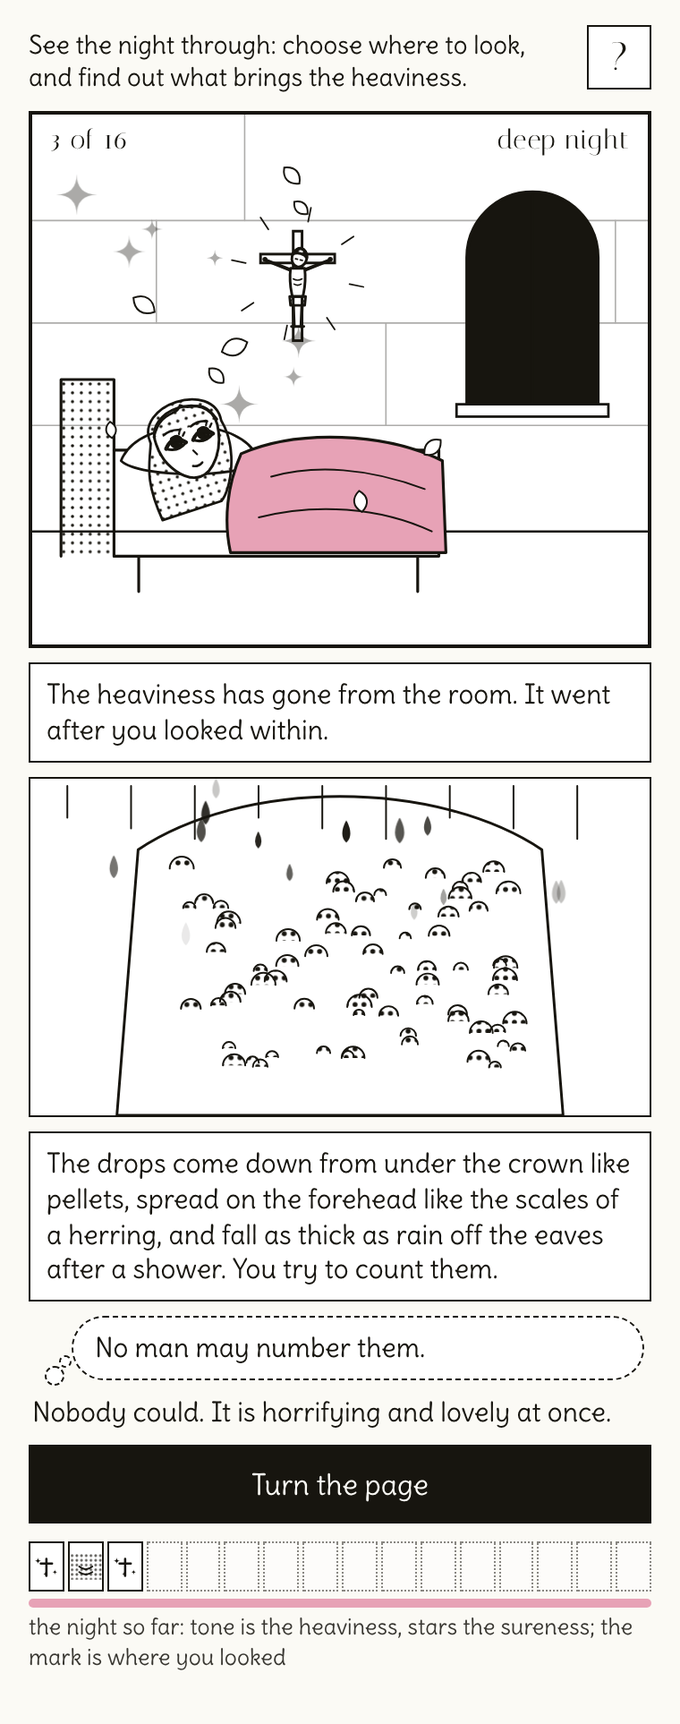
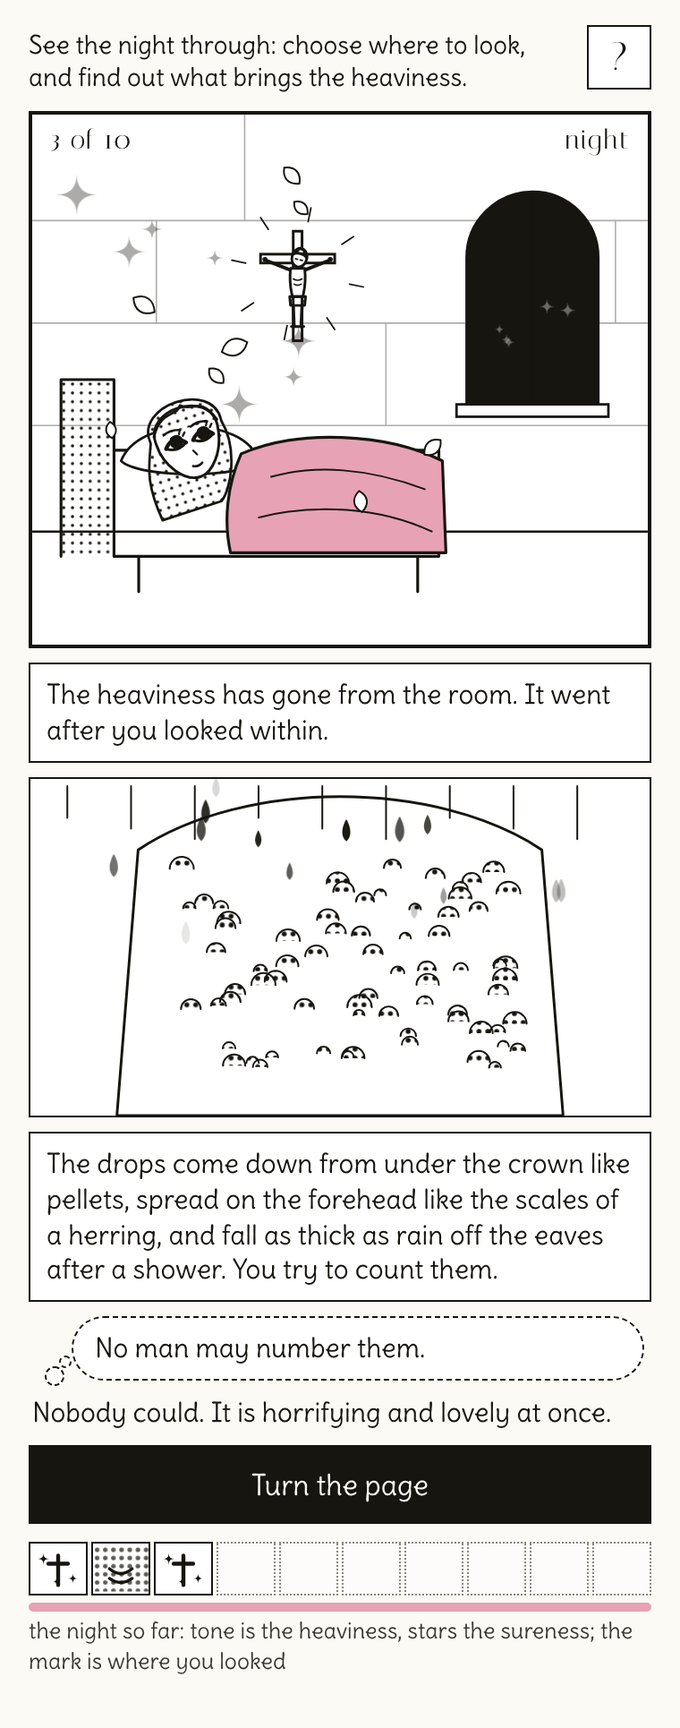
Julian's Window, revision 1: ten beats, one per sight at the cross
The sixteen-beat night ran dry after the tenth beat and felt repetitive. Ten beats: a cross-only player sees exactly the ten sights and nobody else can, so a dark beat at the window costs a sight; the turn rate rises (0.6, longest run 3) so the heaviness still arrives about three times; the record is two rows of five. Calibration 31 checks; four scripted nights; memo §20.

Claude-Session: https://claude.ai/code/session_018niUhxL1598XkZ1naDgFgY

diff --git a/julian/julians-window.html b/julian/julians-window.html
@@ -53,13 +53,13 @@ h2 { font-family: 'Italiana', serif; font-weight: 400; font-size: 28px; line-hei
 .balloon.hers::before { content: ''; position: absolute; left: -16px; bottom: -4px; width: 9px; height: 9px; border: 1.5px dashed var(--ink); border-radius: 50%; background: #fff; }
 .balloon.hers::after { content: ''; position: absolute; left: -8px; bottom: 6px; width: 5px; height: 5px; border: 1.5px dashed var(--ink); border-radius: 50%; background: #fff; }
 .strip { display: flex; gap: 2px; width: var(--w); margin: 10px auto 0; }
-.strip .fr { flex: 1 1 0; height: 28px; border: 1.2px solid var(--ink); background: #fff; position: relative; overflow: hidden; }
+.strip .fr { flex: 1 1 0; height: 30px; border: 1.2px solid var(--ink); background: #fff; position: relative; overflow: hidden; }
 .strip .fr.empty { border-style: dotted; opacity: .5; }
 .strip .fr svg { display: block; width: 100%; height: 100%; }
 .blanketline { width: var(--w); height: 5px; background: var(--rose); margin: 4px auto 0; border-radius: 3px; }
 .striplabel { width: var(--w); margin: 3px auto 0; font-size: 12.5px; display: flex; justify-content: space-between; opacity: .85; }
-.record { display: grid; grid-template-columns: repeat(8, 1fr); gap: 3px; width: var(--w); margin: 8px auto 0; }
-.record .fr { height: 48px; border: 1.2px solid var(--ink); background: #fff; overflow: hidden; }
+.record { display: grid; grid-template-columns: repeat(5, 1fr); gap: 4px; width: var(--w); margin: 8px auto 0; }
+.record .fr { height: 54px; border: 1.2px solid var(--ink); background: #fff; overflow: hidden; }
 .record .fr svg { display: block; width: 100%; height: 100%; }
 .verd h3 { font-family: 'Italiana', serif; font-weight: 400; font-size: 22px; margin: 14px 0 4px; }
 .sentence { font-family: 'Italiana', serif; font-size: 26px; line-height: 1.15; margin: 18px 0 10px; text-align: center; }
@@ -139,7 +139,7 @@ h2 { font-family: 'Italiana', serif; font-weight: 400; font-size: 28px; line-hei
   <h3 class="verd" style="font-family:'Italiana',serif;font-weight:400;font-size:22px;margin:16px 0 4px">The night</h3>
   <div class="record" id="recordGrid"></div>
   <div class="blanketline"></div>
-  <div class="striplabel"><span>sixteen beats: tone is the heaviness, stars the sureness, the mark is where you looked; the blanket under all of them</span></div>
+  <div class="striplabel"><span>ten beats: tone is the heaviness, stars the sureness, the mark is where you looked; the blanket under all of them</span></div>
   <p class="sentence" id="vSentence"></p>
   <div class="row"><button class="btn primary wide" id="againBtn">Another night</button></div>
   <div class="row"><button class="btn" data-go="help">How to play</button><button class="btn" data-go="about">About</button></div>
@@ -149,7 +149,7 @@ h2 { font-family: 'Italiana', serif; font-weight: 400; font-size: 28px; line-hei
 <section id="help" class="screen help">
   <h2>How to play</h2>
   <p><b>See the night through. Each time, choose where to look — the cross, the window, or within — and find out what brings the heaviness.</b></p>
-  <p>The picture is one room: your bed on the left with you in it under a rose blanket, a cross on the wall in front of you, a window on the right. The night has sixteen beats; the small label at the top right of the picture gives the hour, and the sky in the window changes with it.</p>
+  <p>The picture is one room: your bed on the left with you in it under a rose blanket, a cross on the wall in front of you, a window on the right. The night has ten beats, one for each sight at the cross, so no night shows everything; the small label at the top right of the picture gives the hour, and the sky in the window changes with it.</p>
   <p><b>The weather.</b> Sometimes the room is light, with stars and petals over it: that is a sureness. Sometimes a heavy dot-tone lies over everything and scribbles creep in at the edges: that is the heaviness. The line under the picture says which it is now, and, when it has just changed, what you looked at just before. <b>The blanket</b> is how you are kept. It is the one thing in colour.</p>
   <p><b>Looking.</b> Each beat, tap a place: the cross, the window, or you yourself (within), in the picture or on the three panels under it. Your eyes turn there and the panel says what looking there is. Then tap <b>Look</b>. <b>The cross</b> shows the next sight of the Passion; in the heaviness the same sight is hard to look at. <b>The window</b> shows the sky and nothing else; nothing there can harm you, and nothing is shown. <b>Within</b> asks a question and gets an answer, one per beat, in order; in the heaviness the first question is what brought it.</p>
   <p><b>After a look</b> the game says in its own words what you did and what came of it, then His words in a round balloon and yours in a dashed one, then what the heaviness did and what that means. <b>Turn the page</b> starts the next beat. Nothing carries over: every beat starts with your eyes on nothing.</p>
@@ -165,7 +165,7 @@ h2 { font-family: 'Italiana', serif; font-weight: 400; font-size: 28px; line-hei
 <p>In the Seventh Shewing (ch. xv) Julian is filled with sureness, then "turned and left to myself in heaviness", then comforted, "now that one, and now that other, divers times — I suppose about twenty times". She checks the obvious cause and rules it out: "in this time I sinned not wherefore I should be left to myself"; "also I deserved not to have this blessed feeling." She concludes that the swing is given freely, that "He keepeth us even alike secure in woe and in weal", and that we should not "follow the feelings of pain in sorrow and mourning for them, but ... suddenly pass over." The game is that night: the heaviness comes and goes on a schedule drawn before your first look, it follows nothing you do, and the blanket is the same in every panel.</p>
 <p>Where she looks is her one act all night, and the sights are the text's, in its order: the garland bleeding (ch. iv), the drops like pellets, herring scales and rain off the eaves (vii), the face half covered and "seeking is as good as beholding" (x), the scourging (xii), the laugh (xiii), the drying and "I thirst" (xvi–xvii), "Look up to Heaven" and "Nay; I may not" (xix), the change of cheer with "no time between" (xxi), "Art thou well pleased?" (xxii), the side (xxiv), His mother (xxv), "It is I" (xxvi). Within: the hazelnut (v), "sin is no deed" (xi), "Is any pain like this?" (xvii), the check of the cause (xv), "It behoved that there should be sin; but all shall be well" (xxvii), "I have made well the most harm" (xxix), and the hidden part (xxx, xxxii).</p>
 <h3>Mechanism: a toy</h3>
-<p>The game runs a model built to illustrate the text's argument, not a model the text contains. <b>It demonstrates</b> that a night can be played in which the feeling swings on its own clock, follows nothing the player does, and leaves the keeping untouched; and that the sights can be reached in the text's order by looking. <b>It assumes</b> the toy: sixteen beats for sixteen shewings; the twenty swings of one shewing compressed to about eight across the night, on a seeded random schedule with the first heaviness forced by the third beat; a window that carries "Look up to Heaven" and the hour; the horror "away from the Cross" (ch. iii) drawn as scribbles at the edges; a sight dreadful in heaviness and sweet in sureness where ch. vii says one sight was both at once; the change of cheer tied to being at the cross when the weather turns; the blanket for "He is our clothing" (ch. v); the questions asked when the player chooses rather than when He shows. <b>The text establishes</b> an argument from a vision, not a finding: that the swing was not caused by her sin, that the keeping is constant, that the right act is to pass over. Under this game's assumptions those three hold by construction; the game is a way of meeting them, not evidence for them.</p>
+<p>The game runs a model built to illustrate the text's argument, not a model the text contains. <b>It demonstrates</b> that a night can be played in which the feeling swings on its own clock, follows nothing the player does, and leaves the keeping untouched; and that the sights can be reached in the text's order by looking. <b>It assumes</b> the toy: ten beats, one per sight at the cross, so that no night shows everything; the twenty swings of one shewing compressed to about five or six across the night, on a seeded random schedule with the first heaviness forced by the third beat; a window that carries "Look up to Heaven" and the hour; the horror "away from the Cross" (ch. iii) drawn as scribbles at the edges; a sight dreadful in heaviness and sweet in sureness where ch. vii says one sight was both at once; the change of cheer tied to being at the cross when the weather turns; the blanket for "He is our clothing" (ch. v); the questions asked when the player chooses rather than when He shows. <b>The text establishes</b> an argument from a vision, not a finding: that the swing was not caused by her sin, that the keeping is constant, that the right act is to pass over. Under this game's assumptions those three hold by construction; the game is a way of meeting them, not evidence for them.</p>
 <p>Every number and every line the game says sits in a config block at the top of <code>mechanism.js</code>, tagged with its chapter or marked as our choice. The weather is drawn from the night's number, shown on the morning page, so a night can be replayed.</p>
 <h3>Game built from this text</h3>
 <p>Julian of Norwich, <i>Revelations of Divine Love</i>, tr. Grace Warrack (London: Methuen, 1901), chapters i–xxxii. Game built from this text; the text is the authority where the two disagree. Her words appear in balloons as the text gives them, lightly shortened; the game's own voice is in the boxes. Steffen Huck, 2026, with Claude under the <a href="https://github.com/steffenhuck/paper-to-game">paper-to-game</a> skill. Type: Delius (Natalia Raices) and Italiana (Santiago Orozco), both under the SIL Open Font License.</p>
@@ -182,18 +182,17 @@ h2 { font-family: 'Italiana', serif; font-weight: 400; font-size: 28px; line-hei
   'use strict';
 
   var CONFIG = {
-    beats: 16,          // ch. i: "Sixteen Shewings"; our choice: one beat of the night per shewing (a count, not a mapping)
+    beats: 10,          // our choice: ten beats, one per sight at the cross (ch. iv–xxvi), so a night cannot show everything; the first build had sixteen, for the sixteen shewings (ch. i), and ran dry after the tenth
     swingsInText: 20,   // ch. xv: "now that one, and now that other, divers times — I suppose about twenty times" (in one shewing)
-    turnProb: 0.5,      // our choice: the weather turns on about half the beats; ~8 turns in 16 beats stands for the twenty in the text
+    turnProb: 0.6,      // our choice: the weather turns on about six beats in ten; ~5–6 turns in 10 beats stands for the twenty in the text
     firstTurnBy: 3,     // our choice (a floor): the first heaviness no later than beat 3, so the discovery arrives early
-    maxRun: 4,          // our choice: no stretch of one weather longer than 4 beats (ch. xv: "This lasted but a while")
+    maxRun: 3,          // our choice: no stretch of one weather longer than 3 beats (ch. xv: "This lasted but a while")
     startWeal: true,    // ch. xv: the sureness came first ("I was fulfilled with the everlasting sureness")
     keeping: 1,         // ch. xv: "He keepeth us even alike secure in woe and in weal" — constant by construction, never read by the weather
     actsAffectWeather: 0, // ch. xv: "freely our Lord giveth when He will" — the schedule is drawn from the seed before the first look; 0 = no effect
     cheerNeedsCross: 1, // ch. xxi: "willingly abiding in the same Cross ... unto the last point, suddenly He shall change His Cheer" — our tie
     profferAfterDrying: 1, // ch. xix: "Look up to Heaven" is offered while she beholds the drying (ch. xvi–xvii); our tie to the first dark after it
-    hours: ['deep night', 'deep night', 'deep night', 'deep night', 'night', 'night', 'night', 'night',
-            'small hours', 'small hours', 'small hours', 'small hours', 'before dawn', 'before dawn', 'first light', 'morning'] // our choice: the window's clock; the text gives no hour in these chapters
+    hours: ['deep night', 'deep night', 'night', 'night', 'small hours', 'small hours', 'before dawn', 'before dawn', 'first light', 'morning'] // our choice: the window's clock; the text gives no hour in these chapters
   };
 
   // ---- the weather: a seeded schedule, drawn once, independent of every look ----------------------------------------

diff --git a/julian/calibration.js b/julian/calibration.js
@@ -18,16 +18,16 @@ var POLICIES = {
 function play(seed, policy) { var st = J.newNight(seed); while (!st.done) J.look(st, policy(st)); return st; }
 function turns(w) { var k = 0; for (var i = 1; i < w.length; i++) if (w[i] !== w[i - 1]) k++; return k; }
 
-// 1. The weather's shape (ch. xv): sixteen beats, sureness first, the first heaviness by beat 3, no run longer than maxRun,
-//    about half the beats turn: the twenty of the text compressed to about eight, between five and eleven at the 5th–95th percentile.
+// 1. The weather's shape (ch. xv): ten beats, sureness first, the first heaviness by beat 3, no run longer than maxRun,
+//    about six beats in ten turn: the twenty of the text compressed to about five or six, between four and eight at the 5th–95th percentile.
 var T = SEEDS.map(function (s) { return turns(J.schedule(s)); }).sort(function (a, b) { return a - b; });
 var mean = T.reduce(function (a, b) { return a + b; }, 0) / T.length;
-check('schedule has ' + C.beats + ' beats (ch. i: sixteen shewings, as a count)', SEEDS.every(function (s) { return J.schedule(s).length === C.beats; }));
+check('schedule has ' + C.beats + ' beats (one per sight at the cross)', SEEDS.every(function (s) { return J.schedule(s).length === C.beats; }));
 check('the night begins in sureness (ch. xv)', SEEDS.every(function (s) { return J.schedule(s)[0] === true; }));
 check('first heaviness by beat ' + C.firstTurnBy + ' on every seed (our floor)', SEEDS.every(function (s) { var w = J.schedule(s); return w.slice(0, C.firstTurnBy).indexOf(false) >= 0; }));
 check('no stretch of one weather longer than ' + C.maxRun + ' beats ("this lasted but a while")', SEEDS.every(function (s) { var w = J.schedule(s), run = 1; for (var i = 1; i < w.length; i++) { run = w[i] === w[i - 1] ? run + 1 : 1; if (run > C.maxRun) return false; } return true; }));
-check('mean turns per night between 7 and 9 (the text\'s ~20 in one shewing, compressed; declared)', mean >= 7 && mean <= 9, 'mean ' + mean.toFixed(2));
-check('5th–95th percentile of turns within [5, 11]', T[Math.floor(0.05 * T.length)] >= 5 && T[Math.floor(0.95 * T.length)] <= 11, T[Math.floor(0.05 * T.length)] + '–' + T[Math.floor(0.95 * T.length)]);
+check('mean turns per night between 5 and 7 (the text\'s ~20 in one shewing, compressed; declared)', mean >= 5 && mean <= 7, 'mean ' + mean.toFixed(2));
+check('5th–95th percentile of turns within [4, 8]', T[Math.floor(0.05 * T.length)] >= 4 && T[Math.floor(0.95 * T.length)] <= 8, T[Math.floor(0.05 * T.length)] + '–' + T[Math.floor(0.95 * T.length)]);
 check('the twenty is in CONFIG with its chapter', C.swingsInText === 20);
 
 // 2. Independence (ch. xv: "freely our Lord giveth when He will"; "sin is not always the cause"): the same seed gives the same weather
@@ -47,7 +47,8 @@ check('CONFIG.actsAffectWeather is 0 and the schedule takes no argument but the 
 var order = J.CROSS.map(function (c) { return c.ch; });
 check('cross sights in the text\'s order', order.join('|') === 'iv|vii|x|xii|xiii|xvi–xvii|xxii|xxiv|xxv|xxvi');
 var allCross = play(1, POLICIES.cross);
-check('a player at the cross all night sees all ten sights then seeks (ch. x: seeking is as good as beholding)', allCross.record.slice(0, 10).every(function (r, i) { return r.sight === J.CROSS[i].id; }) && allCross.record.slice(10).every(function (r) { return r.sight === 'seeking'; }));
+check('a player at the cross all night sees exactly the ten sights, in order, and never seeks', allCross.record.length === 10 && allCross.record.every(function (r, i) { return r.sight === J.CROSS[i].id; }));
+check('the heaviness arrives at least twice on 95% of nights and three times on most (the superstition needs arrivals to fail)', (function () { var two = 0, three = 0; SEEDS.forEach(function (s) { var w = J.schedule(s), k = 0; for (var t = 1; t < w.length; t++) if (!w[t] && w[t - 1]) k++; if (k >= 2) two++; if (k >= 3) three++; }); return two / SEEDS.length >= 0.95 && three / SEEDS.length >= 0.5; })());
 check('every sight at the cross carries a line for sureness and one for heaviness (ch. vii: "horrifying and dreadful, sweet and lovely")', J.CROSS.every(function (c) { return c.sweet && c.dread; }));
 var allWithin = play(1, POLICIES.within);
 check('a player within all night asks the cause in the first dark, then the questions in order (v, xi, xvii, xxvii, xxix, xxx/xxxii), then rests', (function () {
@@ -94,7 +95,7 @@ check('the onsets named in the verdict are the places looked at just before each
 }));
 
 // 7. Robustness of the discovery (build.md §1): under other values of our own choices the heaviness still follows nothing.
-[{ turnProb: 0.3 }, { turnProb: 0.7 }, { maxRun: 3 }, { firstTurnBy: 2 }].forEach(function (alt) {
+[{ turnProb: 0.4 }, { turnProb: 0.8 }, { maxRun: 4 }, { firstTurnBy: 2 }].forEach(function (alt) {
   var saved = {}; Object.keys(alt).forEach(function (k) { saved[k] = C[k]; C[k] = alt[k]; });
   var o = { cross: [0, 0], window: [0, 0], within: [0, 0] };
   SEEDS.forEach(function (s) { var st = play(s, POLICIES.random); for (var t = 1; t < C.beats; t++) if (st.weather[t - 1]) { var p = st.record[t - 1].place; o[p][1]++; if (!st.weather[t]) o[p][0]++; } });
@@ -104,7 +105,7 @@ check('the onsets named in the verdict are the places looked at just before each
 });
 
 // 8. Playing it in numbers (build.md §3): what each way of playing sees and gets; no score exists, so the table is what is seen.
-console.log('\nways of playing, over 400 nights (means): dark beats / cross in dark / sights seen / questions asked / cheers / cause checked');
+console.log('\nways of playing, over 400 nights of ' + C.beats + ' beats (means): dark beats / cross in dark / sights seen / questions asked / cheers / cause checked');
 Object.keys(POLICIES).forEach(function (p) {
   var acc = [0, 0, 0, 0, 0, 0];
   SEEDS.forEach(function (s) { var v = J.verdict(play(s, POLICIES[p])).counts; acc[0] += v.darks; acc[1] += v.stay; acc[2] += v.seen; acc[3] += v.asked; acc[4] += v.cheers; acc[5] += (play(s, POLICIES[p]).causeAsked ? 1 : 0); });

diff --git a/julian/template.html b/julian/template.html
@@ -53,13 +53,13 @@ h2 { font-family: 'Italiana', serif; font-weight: 400; font-size: 28px; line-hei
 .balloon.hers::before { content: ''; position: absolute; left: -16px; bottom: -4px; width: 9px; height: 9px; border: 1.5px dashed var(--ink); border-radius: 50%; background: #fff; }
 .balloon.hers::after { content: ''; position: absolute; left: -8px; bottom: 6px; width: 5px; height: 5px; border: 1.5px dashed var(--ink); border-radius: 50%; background: #fff; }
 .strip { display: flex; gap: 2px; width: var(--w); margin: 10px auto 0; }
-.strip .fr { flex: 1 1 0; height: 28px; border: 1.2px solid var(--ink); background: #fff; position: relative; overflow: hidden; }
+.strip .fr { flex: 1 1 0; height: 30px; border: 1.2px solid var(--ink); background: #fff; position: relative; overflow: hidden; }
 .strip .fr.empty { border-style: dotted; opacity: .5; }
 .strip .fr svg { display: block; width: 100%; height: 100%; }
 .blanketline { width: var(--w); height: 5px; background: var(--rose); margin: 4px auto 0; border-radius: 3px; }
 .striplabel { width: var(--w); margin: 3px auto 0; font-size: 12.5px; display: flex; justify-content: space-between; opacity: .85; }
-.record { display: grid; grid-template-columns: repeat(8, 1fr); gap: 3px; width: var(--w); margin: 8px auto 0; }
-.record .fr { height: 48px; border: 1.2px solid var(--ink); background: #fff; overflow: hidden; }
+.record { display: grid; grid-template-columns: repeat(5, 1fr); gap: 4px; width: var(--w); margin: 8px auto 0; }
+.record .fr { height: 54px; border: 1.2px solid var(--ink); background: #fff; overflow: hidden; }
 .record .fr svg { display: block; width: 100%; height: 100%; }
 .verd h3 { font-family: 'Italiana', serif; font-weight: 400; font-size: 22px; margin: 14px 0 4px; }
 .sentence { font-family: 'Italiana', serif; font-size: 26px; line-height: 1.15; margin: 18px 0 10px; text-align: center; }
@@ -139,7 +139,7 @@ h2 { font-family: 'Italiana', serif; font-weight: 400; font-size: 28px; line-hei
   <h3 class="verd" style="font-family:'Italiana',serif;font-weight:400;font-size:22px;margin:16px 0 4px">The night</h3>
   <div class="record" id="recordGrid"></div>
   <div class="blanketline"></div>
-  <div class="striplabel"><span>sixteen beats: tone is the heaviness, stars the sureness, the mark is where you looked; the blanket under all of them</span></div>
+  <div class="striplabel"><span>ten beats: tone is the heaviness, stars the sureness, the mark is where you looked; the blanket under all of them</span></div>
   <p class="sentence" id="vSentence"></p>
   <div class="row"><button class="btn primary wide" id="againBtn">Another night</button></div>
   <div class="row"><button class="btn" data-go="help">How to play</button><button class="btn" data-go="about">About</button></div>
@@ -149,7 +149,7 @@ h2 { font-family: 'Italiana', serif; font-weight: 400; font-size: 28px; line-hei
 <section id="help" class="screen help">
   <h2>How to play</h2>
   <p><b>See the night through. Each time, choose where to look — the cross, the window, or within — and find out what brings the heaviness.</b></p>
-  <p>The picture is one room: your bed on the left with you in it under a rose blanket, a cross on the wall in front of you, a window on the right. The night has sixteen beats; the small label at the top right of the picture gives the hour, and the sky in the window changes with it.</p>
+  <p>The picture is one room: your bed on the left with you in it under a rose blanket, a cross on the wall in front of you, a window on the right. The night has ten beats, one for each sight at the cross, so no night shows everything; the small label at the top right of the picture gives the hour, and the sky in the window changes with it.</p>
   <p><b>The weather.</b> Sometimes the room is light, with stars and petals over it: that is a sureness. Sometimes a heavy dot-tone lies over everything and scribbles creep in at the edges: that is the heaviness. The line under the picture says which it is now, and, when it has just changed, what you looked at just before. <b>The blanket</b> is how you are kept. It is the one thing in colour.</p>
   <p><b>Looking.</b> Each beat, tap a place: the cross, the window, or you yourself (within), in the picture or on the three panels under it. Your eyes turn there and the panel says what looking there is. Then tap <b>Look</b>. <b>The cross</b> shows the next sight of the Passion; in the heaviness the same sight is hard to look at. <b>The window</b> shows the sky and nothing else; nothing there can harm you, and nothing is shown. <b>Within</b> asks a question and gets an answer, one per beat, in order; in the heaviness the first question is what brought it.</p>
   <p><b>After a look</b> the game says in its own words what you did and what came of it, then His words in a round balloon and yours in a dashed one, then what the heaviness did and what that means. <b>Turn the page</b> starts the next beat. Nothing carries over: every beat starts with your eyes on nothing.</p>

diff --git a/julian/about.html b/julian/about.html
@@ -3,7 +3,7 @@
 <p>In the Seventh Shewing (ch. xv) Julian is filled with sureness, then "turned and left to myself in heaviness", then comforted, "now that one, and now that other, divers times — I suppose about twenty times". She checks the obvious cause and rules it out: "in this time I sinned not wherefore I should be left to myself"; "also I deserved not to have this blessed feeling." She concludes that the swing is given freely, that "He keepeth us even alike secure in woe and in weal", and that we should not "follow the feelings of pain in sorrow and mourning for them, but ... suddenly pass over." The game is that night: the heaviness comes and goes on a schedule drawn before your first look, it follows nothing you do, and the blanket is the same in every panel.</p>
 <p>Where she looks is her one act all night, and the sights are the text's, in its order: the garland bleeding (ch. iv), the drops like pellets, herring scales and rain off the eaves (vii), the face half covered and "seeking is as good as beholding" (x), the scourging (xii), the laugh (xiii), the drying and "I thirst" (xvi–xvii), "Look up to Heaven" and "Nay; I may not" (xix), the change of cheer with "no time between" (xxi), "Art thou well pleased?" (xxii), the side (xxiv), His mother (xxv), "It is I" (xxvi). Within: the hazelnut (v), "sin is no deed" (xi), "Is any pain like this?" (xvii), the check of the cause (xv), "It behoved that there should be sin; but all shall be well" (xxvii), "I have made well the most harm" (xxix), and the hidden part (xxx, xxxii).</p>
 <h3>Mechanism: a toy</h3>
-<p>The game runs a model built to illustrate the text's argument, not a model the text contains. <b>It demonstrates</b> that a night can be played in which the feeling swings on its own clock, follows nothing the player does, and leaves the keeping untouched; and that the sights can be reached in the text's order by looking. <b>It assumes</b> the toy: sixteen beats for sixteen shewings; the twenty swings of one shewing compressed to about eight across the night, on a seeded random schedule with the first heaviness forced by the third beat; a window that carries "Look up to Heaven" and the hour; the horror "away from the Cross" (ch. iii) drawn as scribbles at the edges; a sight dreadful in heaviness and sweet in sureness where ch. vii says one sight was both at once; the change of cheer tied to being at the cross when the weather turns; the blanket for "He is our clothing" (ch. v); the questions asked when the player chooses rather than when He shows. <b>The text establishes</b> an argument from a vision, not a finding: that the swing was not caused by her sin, that the keeping is constant, that the right act is to pass over. Under this game's assumptions those three hold by construction; the game is a way of meeting them, not evidence for them.</p>
+<p>The game runs a model built to illustrate the text's argument, not a model the text contains. <b>It demonstrates</b> that a night can be played in which the feeling swings on its own clock, follows nothing the player does, and leaves the keeping untouched; and that the sights can be reached in the text's order by looking. <b>It assumes</b> the toy: ten beats, one per sight at the cross, so that no night shows everything; the twenty swings of one shewing compressed to about five or six across the night, on a seeded random schedule with the first heaviness forced by the third beat; a window that carries "Look up to Heaven" and the hour; the horror "away from the Cross" (ch. iii) drawn as scribbles at the edges; a sight dreadful in heaviness and sweet in sureness where ch. vii says one sight was both at once; the change of cheer tied to being at the cross when the weather turns; the blanket for "He is our clothing" (ch. v); the questions asked when the player chooses rather than when He shows. <b>The text establishes</b> an argument from a vision, not a finding: that the swing was not caused by her sin, that the keeping is constant, that the right act is to pass over. Under this game's assumptions those three hold by construction; the game is a way of meeting them, not evidence for them.</p>
 <p>Every number and every line the game says sits in a config block at the top of <code>mechanism.js</code>, tagged with its chapter or marked as our choice. The weather is drawn from the night's number, shown on the morning page, so a night can be replayed.</p>
 <h3>Game built from this text</h3>
 <p>Julian of Norwich, <i>Revelations of Divine Love</i>, tr. Grace Warrack (London: Methuen, 1901), chapters i–xxxii. Game built from this text; the text is the authority where the two disagree. Her words appear in balloons as the text gives them, lightly shortened; the game's own voice is in the boxes. Steffen Huck, 2026, with Claude under the <a href="https://github.com/steffenhuck/paper-to-game">paper-to-game</a> skill. Type: Delius (Natalia Raices) and Italiana (Santiago Orozco), both under the SIL Open Font License.</p>

diff --git a/julian/session-test.js b/julian/session-test.js
@@ -15,7 +15,8 @@ const file = 'file://' + path.resolve(__dirname, 'julians-window.html');
   const noScroll = async (where) => { const w = await page.evaluate(() => document.documentElement.scrollWidth); if (w > 380) errors.push('horizontal scroll at ' + where + ': ' + w); };
   const log = [];
   async function playNight(tag, policy, shots) {
-    for (let beat = 0; beat < 16; beat++) {
+    const BEATS = await page.evaluate(() => window.Julian.CONFIG.beats);
+    for (let beat = 0; beat < BEATS; beat++) {
       const st = await page.evaluate(() => { const s = window.__julian.state; return { beat: s.beat, weal: s.weather[s.beat], causeAsked: s.causeAsked, line: document.getElementById('weatherLine').textContent }; });
       const place = policy(st);
       if (shots.indexOf('b' + beat) >= 0) await shot(tag + '-beat' + (beat + 1) + '-choose');
@@ -28,7 +29,7 @@ const file = 'file://' + path.resolve(__dirname, 'julians-window.html');
       log.push(tag + ' beat ' + (beat + 1) + ' [' + (st.weal ? 'sureness' : 'HEAVINESS') + '] ' + st.line + ' > ' + place + ' :: ' + res.cap.slice(0, 70) + '... | ' + res.line.slice(0, 80));
       if (shots.indexOf('r' + beat) >= 0) await shot(tag + '-beat' + (beat + 1) + '-result');
       await noScroll(tag + ' beat ' + beat);
-      if (beat === 5 && tag === 'a') { // help from mid-play, and back
+      if (beat === 4 && tag === 'a') { // help from mid-play, and back
         await page.click('#play .qbtn'); await shot('help'); await page.click('#helpBack');
         const back = await page.evaluate(() => document.querySelector('.screen.on').id); if (back !== 'play') errors.push('help did not return to play');
         const still = await page.evaluate(() => document.getElementById('result').style.display); if (still === 'none') errors.push('result lost after help');
@@ -46,7 +47,7 @@ const file = 'file://' + path.resolve(__dirname, 'julians-window.html');
   await page.click('#startBtn'); await shot('intro'); await noScroll('intro');
   await page.click('#introBtn');
   // A: Julian's own night — the cross, and one look within in the first dark
-  await playNight('a', st => (!st.weal && !st.causeAsked) ? 'within' : 'cross', ['b0', 's0', 'r0', 'b1', 'r1', 'r2', 'r3', 'r6', 'r7', 's8', 'r8', 'r12', 'b14']);
+  await playNight('a', st => (!st.weal && !st.causeAsked) ? 'within' : 'cross', ['b0', 's0', 'r0', 'b1', 'r1', 'r2', 'r3', 'r5', 'r6', 's7', 'r7', 'r8', 'b9']);
   await page.click('#end [data-go="about"]'); await shot('about'); await page.click('#aboutBack');
   const backTo = await page.evaluate(() => document.querySelector('.screen.on').id); if (backTo !== 'end') errors.push('about did not return to end');
   // B: the stranger's first instinct — the window in every dark
@@ -54,7 +55,7 @@ const file = 'file://' + path.resolve(__dirname, 'julians-window.html');
   await playNight('b', st => st.weal ? 'cross' : 'window', ['r1', 'r2', 'r5', 'r8']);
   // C: within all night
   await page.click('#againBtn');
-  await playNight('c', () => 'within', ['r0', 'r2', 'r8', 'r12']);
+  await playNight('c', () => 'within', ['r0', 'r2', 'r6', 'r9']);
   // D: the window all night (never a sight)
   await page.click('#againBtn');
   await playNight('d', () => 'window', ['r3']);

diff --git a/julian/mechanism.js b/julian/mechanism.js
@@ -6,18 +6,17 @@
   'use strict';
 
   var CONFIG = {
-    beats: 16,          // ch. i: "Sixteen Shewings"; our choice: one beat of the night per shewing (a count, not a mapping)
+    beats: 10,          // our choice: ten beats, one per sight at the cross (ch. iv–xxvi), so a night cannot show everything; the first build had sixteen, for the sixteen shewings (ch. i), and ran dry after the tenth
     swingsInText: 20,   // ch. xv: "now that one, and now that other, divers times — I suppose about twenty times" (in one shewing)
-    turnProb: 0.5,      // our choice: the weather turns on about half the beats; ~8 turns in 16 beats stands for the twenty in the text
+    turnProb: 0.6,      // our choice: the weather turns on about six beats in ten; ~5–6 turns in 10 beats stands for the twenty in the text
     firstTurnBy: 3,     // our choice (a floor): the first heaviness no later than beat 3, so the discovery arrives early
-    maxRun: 4,          // our choice: no stretch of one weather longer than 4 beats (ch. xv: "This lasted but a while")
+    maxRun: 3,          // our choice: no stretch of one weather longer than 3 beats (ch. xv: "This lasted but a while")
     startWeal: true,    // ch. xv: the sureness came first ("I was fulfilled with the everlasting sureness")
     keeping: 1,         // ch. xv: "He keepeth us even alike secure in woe and in weal" — constant by construction, never read by the weather
     actsAffectWeather: 0, // ch. xv: "freely our Lord giveth when He will" — the schedule is drawn from the seed before the first look; 0 = no effect
     cheerNeedsCross: 1, // ch. xxi: "willingly abiding in the same Cross ... unto the last point, suddenly He shall change His Cheer" — our tie
     profferAfterDrying: 1, // ch. xix: "Look up to Heaven" is offered while she beholds the drying (ch. xvi–xvii); our tie to the first dark after it
-    hours: ['deep night', 'deep night', 'deep night', 'deep night', 'night', 'night', 'night', 'night',
-            'small hours', 'small hours', 'small hours', 'small hours', 'before dawn', 'before dawn', 'first light', 'morning'] // our choice: the window's clock; the text gives no hour in these chapters
+    hours: ['deep night', 'deep night', 'night', 'night', 'small hours', 'small hours', 'before dawn', 'before dawn', 'first light', 'morning'] // our choice: the window's clock; the text gives no hour in these chapters
   };
 
   // ---- the weather: a seeded schedule, drawn once, independent of every look ----------------------------------------

diff --git a/julian/loop.js b/julian/loop.js
@@ -14,7 +14,7 @@ console.log('NIGHT ' + seed + '  weather: ' + st.weather.map(function (w) { retu
 console.log('AIM: See the night through. Each time, choose where to look — the cross, the window, or within — and find out what brings the heaviness.\n');
 while (!st.done) {
   var t = st.beat;
-  console.log('--- beat ' + (t + 1) + ' of 16 · ' + J.hour(st) + ' · page: ' + (J.weal(st) ? '[stars, petals]' : '[heavy tone, scribbles at the edges]') + ' · blanket: rose, unchanged');
+  console.log('--- beat ' + (t + 1) + ' of ' + J.CONFIG.beats + ' · ' + J.hour(st) + ' · page: ' + (J.weal(st) ? '[stars, petals]' : '[heavy tone, scribbles at the edges]') + ' · blanket: rose, unchanged');
   console.log('    ' + J.pageLine(st));
   var opts = J.options(st);
   opts.forEach(function (o) { console.log('    [' + o.label + '] ' + o.line); });

diff --git a/julian/author-note.md b/julian/author-note.md
@@ -1,7 +1,7 @@
 # Julian's Window — note for the author
 
-1. Look first at `screenshot-a-beat2-result.png` (the first heaviness: the page under dot-tone, scribbles at the edges, the blanket and the cross's own light spared, and her check of the cause: an empty hand), then `screenshot-a-beat7-result.png` (the drying at the cross in the dark, and the cheer changing with no time between: the room already in stars while the sight is still the dry face), `screenshot-a-beat9-selected.png` ("look up" offered from the window), and `screenshot-a-end.png` (the verdict in words, then the night as sixteen frames with the rose line under them). Then play it once on a phone, with your thumb: the stay-or-go decision in the dark is the game.
-2. Everything tunable is in `CONFIG` at the top of `mechanism.js`, the only copy of the mechanism: the text's numbers (sixteen shewings, the twenty swings of ch. xv, the sureness first), each tagged with its chapter; and everything ours (the turn probability, the first heaviness forced by beat three, the longest run, the hours at the window, the ties of the cheer and the proffer). Every line the game says is in the same file (`CROSS`, `WITHIN`, `WINDOW`, `WEATHER`, `VERDICT`), tagged by chapter; the drawings are in `art.js`. Edit, run `node calibration.js` (30 checks: the schedule's shape over 400 seeds, independence of the weather from every way of playing and under four alternative settings, the sights' order, the cheer and the proffer, the verdict), then `python3 build.py`, which refuses to build if the embedded mechanism differs from the file. The text is typeset (CCEL's edition of Warrack), not scanned; chapter numbers are Warrack's.
-3. What we were least sure about: (a) the weather as a seeded random process, where the text says only "freely" and "when He will", and its compression from about twenty swings in one shewing to about eight across a night; (b) the window, which the text does not have: it carries "Look up to Heaven" (ch. xix) and the hour, both ours; (c) a sight "dreadful" in heaviness and "sweet" in sureness, where ch. vii says one sight was "horrifying and dreadful, sweet and lovely" at once; (d) the change of cheer tied to being at the cross when the weather turns (ch. xxi says "willingly abiding in the same Cross ... unto the last point"; the tie to a beat is ours); (e) her words in the balloons are the text's, lightly shortened, which the skill's rule against quoting was bent for: a manga puts its text in balloons, and these lines are the text; (f) the drawings are ours, in a shōjo manner, not from any edition.
+1. Look first at `screenshot-a-beat2-result.png` (the first heaviness: the page under dot-tone, scribbles at the edges, the blanket and the cross's own light spared, and her check of the cause: an empty hand), then a dark beat at the cross where the cheer changes with no time between (the room already in stars while the sight is still the dry face; `screenshot-a-beat6-result.png` or `screenshot-a-beat8-result.png` on night 7), `screenshot-a-beat8-selected.png` ("look up" offered from the window), and `screenshot-a-end.png` (the verdict in words, then the night as sixteen frames with the rose line under them). Then play it once on a phone, with your thumb: the stay-or-go decision in the dark is the game.
+2. Everything tunable is in `CONFIG` at the top of `mechanism.js`, the only copy of the mechanism: the text's numbers (the twenty swings of ch. xv, the sureness first), each tagged with its chapter; and everything ours (ten beats, the turn probability, the first heaviness forced by beat three, the longest run, the hours at the window, the ties of the cheer and the proffer). Every line the game says is in the same file (`CROSS`, `WITHIN`, `WINDOW`, `WEATHER`, `VERDICT`), tagged by chapter; the drawings are in `art.js`. Edit, run `node calibration.js` (30 checks: the schedule's shape over 400 seeds, independence of the weather from every way of playing and under four alternative settings, the sights' order, the cheer and the proffer, the verdict), then `python3 build.py`, which refuses to build if the embedded mechanism differs from the file. The text is typeset (CCEL's edition of Warrack), not scanned; chapter numbers are Warrack's.
+3. What we were least sure about: (a) the weather as a seeded random process, where the text says only "freely" and "when He will", and its compression from about twenty swings in one shewing to about five or six across a night of ten beats; (b) the window, which the text does not have: it carries "Look up to Heaven" (ch. xix) and the hour, both ours; (c) a sight "dreadful" in heaviness and "sweet" in sureness, where ch. vii says one sight was "horrifying and dreadful, sweet and lovely" at once; (d) the change of cheer tied to being at the cross when the weather turns (ch. xxi says "willingly abiding in the same Cross ... unto the last point"; the tie to a beat is ours); (e) her words in the balloons are the text's, lightly shortened, which the skill's rule against quoting was bent for: a manga puts its text in balloons, and these lines are the text; (f) the drawings are ours, in a shōjo manner, not from any edition.
 
-This game has had the builder's review only: screenshots and scripted browser sessions at 380 px. It has not been played by real strangers, and its length (about five minutes for a night) is an estimate.
+This game has had the builder's review only: screenshots and scripted browser sessions at 380 px. It has not been played by real strangers, and its length (about three to four minutes for a night) is an estimate.

diff --git a/julian/memo.md b/julian/memo.md
@@ -166,3 +166,9 @@ The dark beats are the same for everyone: that column is the discovery. The stra
 - Screens reviewed at 380 px (deviceScaleFactor 2). Faults found and fixed: the dot-tone patterns were defined inside the hidden cover drawing and never painted on the play page or the strip (moved to one never-hidden `defs`); petals landed inside the window; the crown floated like a halo; the drops were faint; the hands on the blanket read as eggs; the crucifix was a stick figure; the hazelnut read as an eye; the heaviness tone covered the blanket (now spared, with the cross's own light, ch. iii); the Nay line came after the sight instead of before it; the end screen led with the strip instead of the verdict (reordered per build.md §4.4).
 - `session-test.js`: four nights (Julian's own way; flee; within all night; the window all night), help opened at beat 6 and returned to the result, About from the end screen and back, Another night thrice; no errors, no horizontal scroll; 30 screenshots; `session-log.txt`.
 - Length: about five minutes for a night, an estimate; builder's review only.
+
+## 20. Revision 1: ten beats (Steffen's nibble, 4 Nov 2026)
+
+Played, the sixteen-beat night felt repetitive: three places, the same chooser, and from about the tenth beat the cross queue (ten sights) and the within queue (seven questions) were exhausted, so the last beats were "seeking" and "rest", the dullest panels. The alternatives were a fourth place to look or a shorter night. A fourth place (the dark at the edges, with the laugh at the Fiend, ch. xiii, was the candidate) would have added a queue that also runs dry and diluted the stay-or-go decision in the dark. Cut instead, to **ten beats, one per sight at the cross**: the filler goes; a cross-only player sees exactly the ten sights and nobody else can, so a dark beat at the window now costs a sight; and the strip has room on a phone. Not seven: with the first heaviness by beat three, seven beats bring the heaviness about twice, and the superstition needs three arrivals to form and fail. To keep three arrivals in ten beats the turn probability rises from 0.5 to 0.6 and the longest run falls from 4 to 3 (truer to "about twenty times"); the calibration now also checks that the heaviness arrives at least twice on 95 % of nights and three times on most. The sixteen of ch. i was only ever a count and is gone from the config; the record page is two rows of five. Robustness re-run at 0.4 / 0.8 / longest run 4 / first dark by beat 2.
+
+Playing it in numbers at ten beats, over 400 nights (means): dark beats 4.7 for everyone; the cross all night sees 10 sights and 2.7 cheers; flee (the window in every dark) sees 5.3 sights and no cheer, where at sixteen beats it saw 8.3; Julian's own way sees 9 sights, checks the cause once, and 2.1 cheers; random sees 3.4 sights and asks 3.2 questions. `session-test.js` re-run: four nights, help from beat 5, no errors, 30 screenshots. 31 checks pass.

diff --git a/julian/row.md b/julian/row.md
@@ -1,1 +1,1 @@
-| **Julian's Window** | Julian of Norwich (1373/c. 1393), *Revelations of Divine Love*, tr. Grace Warrack (1901), chapters i–xxxii. As a shōjo manga: you are Julian in the bed, one night in a cell with one window, a cross on the wall. Sixteen times, choose where to look — the cross (the next sight of the Passion, drawn in ink, sweet in the sureness and dreadful in the heaviness), the window (the sky and the hour; nothing shown, nothing harmful), or within (the hazelnut, what sin is, what brought this heaviness, how all might be well, and one question that meets a wall). A heaviness comes over the page and goes again on its own clock, about half the beats; it follows nothing you do, the rose blanket never changes, and "Where is now any point of thy pain?" comes only to the one at the cross when it turns, with no time between. No score; a verdict in words, and her sentence. | [play](https://steffenhuck.github.io/paper-to-game/julian/julians-window.html) · [memo](julian/memo.md) |
+| **Julian's Window** | Julian of Norwich (1373/c. 1393), *Revelations of Divine Love*, tr. Grace Warrack (1901), chapters i–xxxii. As a shōjo manga: you are Julian in the bed, one night in a cell with one window, a cross on the wall. Ten times, choose where to look — the cross (the next sight of the Passion, drawn in ink, sweet in the sureness and dreadful in the heaviness), the window (the sky and the hour; nothing shown, nothing harmful), or within (the hazelnut, what sin is, what brought this heaviness, how all might be well, and one question that meets a wall). A heaviness comes over the page and goes again on its own clock, about six beats in ten; it follows nothing you do, the rose blanket never changes, and "Where is now any point of thy pain?" comes only to the one at the cross when it turns, with no time between. No score; a verdict in words, and her sentence. | [play](https://steffenhuck.github.io/paper-to-game/julian/julians-window.html) · [memo](julian/memo.md) |
